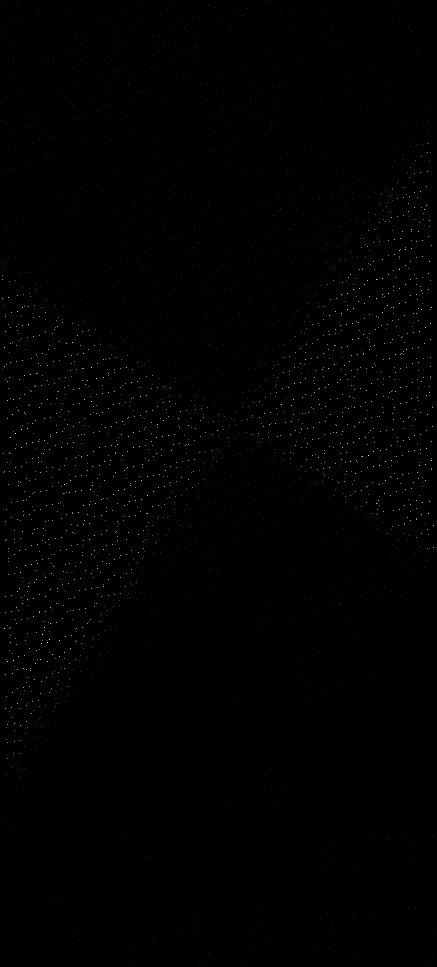
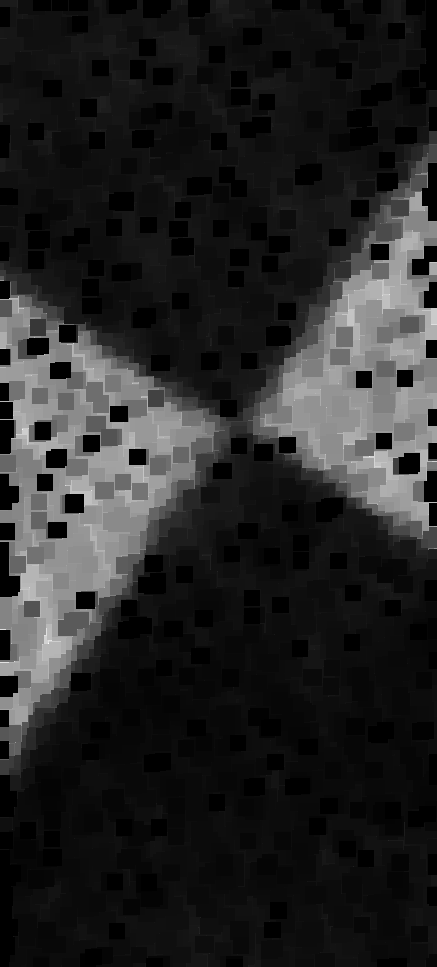
Auto crop and auto rotation is finished. GOOD JOB YOU HAVE DONE!!!

diff --git a/combination.py b/combination.py
@@ -131,8 +131,11 @@ def corner_detector(src_gray_, val):
 
 
 def pattern_corner_detector(src_gray_):
-    print(src_gray_.shape, '照片形状')
-    x_, y_ = int(src_gray_.shape[0] / 16), int(src_gray_.shape[1] / 16)
+    ret2, src_gray_ = cv2.threshold(src_gray_, 150, 255, cv2.THRESH_BINARY + cv2.THRESH_OTSU)
+    # print(src_gray_.shape, '照片形状')
+    x_, y_ = int(src_gray_.shape[0] / 8), int(src_gray_.shape[1] / 8)
+    x_ = min(x_, y_)
+    y_ = min(x_, y_)
     part_1 = np.zeros((x_, y_))
     part_2 = np.ones((x_, y_)) * 255
     template_up = np.hstack((part_1, part_2))
@@ -145,21 +148,36 @@ def pattern_corner_detector(src_gray_):
     cy = template_.shape[0]
 
     print(cx, cy, 'template shape')
+    min_val_initial = 10**10000
 
-    rotation_matrix_ = cv2.getRotationMatrix2D((int(cx/2), int(cy/2)), -35, 1)
-    rotated_ = cv2.warpAffine(template_, rotation_matrix_, (cx, cy))
-    ret_rotation, rotated_ = cv2.threshold(rotated_, 150, 255, cv2.THRESH_BINARY)
+    for ang_ in np.linspace(0, 180, 181, endpoint=True):
+        rotation_matrix_ = cv2.getRotationMatrix2D((int(cx / 2), int(cy / 2)), ang_, 1.7)
+        rotated_ = cv2.warpAffine(template_, rotation_matrix_, (cx, cy))
+        ret_rotation, rotated_ = cv2.threshold(rotated_, 150, 255, cv2.THRESH_BINARY)
 
-    result = cv2.matchTemplate(src_gray_, rotated_, cv2.TM_SQDIFF)
-    # cv2.normalize(result, result, 0, 1, cv2.NORM_MINMAX, -1)
-    min_val, max_val, min_loc, max_loc = cv2.minMaxLoc(result)
+        result = cv2.matchTemplate(src_gray_, rotated_, cv2.TM_SQDIFF)
+        min_val, max_val, min_loc, max_loc = cv2.minMaxLoc(result)
+
+        if min_val < min_val_initial:
+            min_val_initial = min_val
+            min_loc = min_loc
+            center_loc = np.array(list(min_loc)) + np.array([cx / 2, cy / 2])
+
+    # rotation_matrix_ = cv2.getRotationMatrix2D((int(cx/2), int(cy/2)), angle, 1.7)
+    # rotated_ = cv2.warpAffine(template_, rotation_matrix_, (cx, cy))
+    # ret_rotation, rotated_ = cv2.threshold(rotated_, 150, 255, cv2.THRESH_BINARY)
+    #
+    # result = cv2.matchTemplate(src_gray_, rotated_, cv2.TM_SQDIFF)
+    # # cv2.normalize(result, result, 0, 1, cv2.NORM_MINMAX, -1)
+    # min_val, max_val, min_loc, max_loc = cv2.minMaxLoc(result)
     # print(min_val, max_val, min_loc, max_loc)
     # print(np.array(list(min_loc)) + np.array([cx / 2, cy / 2]))
-    center_loc = np.array(list(min_loc)) + np.array([cx / 2, cy / 2])
+    # center_loc = np.array(list(min_loc)) + np.array([cx / 2, cy / 2])
+    # print(center_loc, "what happend")
     return center_loc
 
 
-file_name = 'B_ML'
+file_name = 'merged'
 
 cordi, color = data_preprocess(file_name + '.txt')
 
@@ -192,7 +210,6 @@ data_helper = np.array([[np.min(data_final[:, 1]), np.min(data_final[:, 2])]])
 print(data_helper, 'I am helping you')
 new_cor = np.round((cut_data_ - data_helper)/spacing_avg).astype(int)
 
-
 pixel_x, pixel_y = np.max(new_cor[:, 0]), np.max(new_cor[:, 1])
 print(pixel_x, pixel_y)
 print(len(new_cor), pixel_x*pixel_y)
@@ -204,27 +221,16 @@ for i in range(len(new_cor)):
     img_index_x, img_index_y = new_cor[i, 0], new_cor[i, 1]
     base_img[img_index_x, img_index_y] = color[i, 0]
 
-kernel_noise = np.ones((1, 1), dtype='uint8')
+kernel_noise = np.ones((16, 16), dtype='uint8')
 base_img = base_img.astype(np.uint8)
 base_img_de_noise = cv2.morphologyEx(base_img, cv2.MORPH_CLOSE, kernel_noise)
 # base_img_de_noise = cv2.morphologyEx(base_img_de_noise, cv2.MORPH_CLOSE, kernel_noise)
 
-cv2.imwrite(file_name + '.png', base_img)
+cv2.imwrite(file_name + '.png', base_img_de_noise)
 
 
 corner_detected = pattern_corner_detector(base_img_de_noise)
 print(corner_detected, '角点坐标')
-
-# plt.imshow(base_img, cmap='gray')
-# fig = plt.figure()
-# plt.imshow(base_img_de_noise, cmap='gray')
-# plt.show()
-
-# cv2.imshow('image', base_img_de_noise)
-# cv2.waitKey(0)
-# cv2.destroyAllWindows()
-
-# cv2.imwrite('B_MU_pic.png', base_img_de_noise)
 
 corner_pixel_cor = np.array([corner_detected[1], corner_detected[0]])
 back_cor = corner_pixel_cor*spacing_avg + data_helper

diff --git a/find the angle.py b/find the angle.py
@@ -2,9 +2,114 @@ import numpy as np
 import cv2
 from math import cos,sin,radians
 import matplotlib.pyplot as plt
+from sklearn.cluster import KMeans
+
 
 target = cv2.imread("B_MU_pic.png")
 target_gray = cv2.cvtColor(target, cv2.COLOR_BGR2GRAY)
+
+kernel_noise = np.ones((16, 16), dtype='uint8')
+base_img_de_noise = cv2.morphologyEx(target_gray, cv2.MORPH_CLOSE, kernel_noise)
+
 ret2, th2 = cv2.threshold(target_gray, 0, 255, cv2.THRESH_BINARY+cv2.THRESH_OTSU)
 
 print(th2.shape)
+
+th2_re = th2.reshape((-1, 1))
+x = np.arange(th2.shape[0])
+y = np.arange(th2.shape[1])
+X, Y = np.meshgrid(x, y)
+
+index_x = X.T.reshape((-1, 1))
+index_y = Y.T.reshape((-1, 1))
+
+new_index = np.hstack((index_x, index_y, th2_re))
+print(new_index)
+print(target.shape, "aaaaa")
+
+print(new_index[:, -1] == 0)
+
+updated = np.delete(new_index, new_index[:, -1] == 0, axis=0)
+print(updated)
+
+updated_2 = np.delete(updated, -1, axis=1)
+print(updated_2)
+# new_index = np.uint8(new_index)
+
+k_mean_sk = KMeans(n_clusters=2, random_state=0).fit(updated_2)
+print(k_mean_sk.cluster_centers_, "最后的希望")
+result = k_mean_sk.cluster_centers_
+result2 = np.abs(result[0] - result[1])
+thetattt = np.arctan(result2[0]/result2[1])*180/np.pi
+print(result2)
+print(thetattt)
+
+updated = np.delete(new_index, new_index[:, -1] == 255, axis=0)
+print(updated)
+
+updated_2 = np.delete(updated, -1, axis=1)
+print(updated_2)
+# new_index = np.uint8(new_index)
+
+k_mean_sk = KMeans(n_clusters=2, random_state=0).fit(updated_2)
+print(k_mean_sk.cluster_centers_, "最后的希望")
+result = k_mean_sk.cluster_centers_
+result2 = np.abs(result[0] - result[1])
+thetattt = np.arctan(result2[0]/result2[1])*180/np.pi
+print(result2)
+print(thetattt)
+
+
+# Z = target.reshape((-1, 3))
+# Z = np.float32(updated_2)
+# #
+# criteria = (cv2.TERM_CRITERIA_EPS + cv2.TERM_CRITERIA_MAX_ITER, 10, 1.0)
+# K = 2
+# ret, label, center = cv2.kmeans(Z, K, None, criteria, 20, cv2.KMEANS_RANDOM_CENTERS)
+# print(center)
+# #
+# center = np.uint8(center)
+# res = center[label.flatten()]
+# print(res)
+
+plt.imshow(th2, cmap='gray')
+plt.show()
+# res2 = res.reshape((th2.shape))
+
+# # 提取边缘
+# edges = cv2.Canny(th2, 200, 250, apertureSize=3)
+# plt.imshow(edges)
+# plt.show()
+# print(int(0.25*np.sqrt(edges.shape[0]**2 + edges.shape[1]**2)), '阈值')
+# # 提取直线
+# lines = cv2.HoughLines(edges, 1, 1*np.pi/180, 80)
+# print(lines)
+#
+# for line in lines:
+#     for rho, theta in line:
+#         print(rho, theta)
+#         a = np.cos(theta)
+#         b = np.sin(theta)
+#         print(theta/np.pi*180)
+#         x0 = a*rho
+#         y0 = b*rho
+#         x_check = x0 + np.tan(theta) + 10
+#         y_check = y0 + np.tan(theta) + 10
+#         print(th2[int(x_check), int(y_check)])
+#         x1 = int(x0 + 1000*(-b))
+#         y1 = int(y0 + 1000*(a))
+#         x2 = int(x0 - 1000*(-b))
+#         y2 = int(y0 - 1000*(a))
+#         #把直线显示在图片上
+#         cv2.line(th2,(x1,y1),(x2,y2),(0,0,255),2)
+#
+# # 显示原图和处理后的图像
+# cv2.imshow("org", target)
+# cv2.imshow("processed", th2)
+#
+# cv2.waitKey(0)
+#
+#
+#
+# # result
+# # kmean: k=3, cost=-668

diff --git a/cad_based matching.py b/cad_based matching.py
@@ -5,10 +5,13 @@ import matplotlib.pyplot as plt
 
 
 #读取目标图片
-target = cv2.imread("222.png")
+target = cv2.imread("zehao.png")
 target_gray = cv2.cvtColor(target, cv2.COLOR_BGR2GRAY)
+ret2, target_gray = cv2.threshold(target_gray, 200, 255, cv2.THRESH_BINARY+cv2.THRESH_OTSU)
 
-x_, y_ = int(target_gray.shape[0] / 16), int(target_gray.shape[1] / 16)
+x_, y_ = int(target_gray.shape[0] / 8), int(target_gray.shape[1] / 8)
+x_ = min(x_, y_)
+y_ = min(x_, y_)
 part_1 = np.zeros((x_, y_))
 part_2 = np.ones((x_, y_))*255
 template_up = np.hstack((part_1, part_2))
@@ -26,28 +29,48 @@ print(target_gray.shape, '导入后照片形状')
 cx = template_new.shape[1]
 cy = template_new.shape[0]
 
-M = cv2.getRotationMatrix2D((int(cx/2), int(cy/2)), -34, 1)
-rotated_30 = cv2.warpAffine(template_new, M, (cx, cy))
-ret, rotated_30 = cv2.threshold(rotated_30, 150, 255, cv2.THRESH_BINARY)
+min_val_initial = 10**10000
 
-result = cv2.matchTemplate(target_gray, rotated_30, cv2.TM_SQDIFF)
-print(cv2.minMaxLoc(result))
-cv2.normalize(result, result, 0, 1, cv2.NORM_MINMAX, -1)
-min_val, max_val, min_loc, max_loc = cv2.minMaxLoc(result)
-print(min_val, max_val, min_loc, max_loc)
-print(np.array(list(min_loc)) + np.array([cx/2, cy/2]))
+for ang_ in np.linspace(0, 180, 181, endpoint=True):
+    rotation_matrix_ = cv2.getRotationMatrix2D((int(cx / 2), int(cy / 2)), ang_, 2)
+    rotated_ = cv2.warpAffine(template_new, rotation_matrix_, (cx, cy))
+    ret_rotation, rotated_ = cv2.threshold(rotated_, 150, 255, cv2.THRESH_BINARY)
+
+    result = cv2.matchTemplate(target_gray, rotated_, cv2.TM_SQDIFF)
+    min_val, max_val, min_loc, max_loc = cv2.minMaxLoc(result)
+
+    if min_val < min_val_initial:
+        min_val_initial = min_val
+        left_corner = min_loc
+        rotated_draw = rotated_
+        center_loc = np.array(list(min_loc)) + np.array([cx / 2, cy / 2])
+        circle_center = (int(min_loc[0]+cx/2), int(min_loc[1]+cy/2))
+        up_corner = (min_loc[0] + cx, min_loc[1] + cy)
+
+# M = cv2.getRotationMatrix2D((int(cx/2), int(cy/2)), 145, 1.7)
+# rotated_30 = cv2.warpAffine(template_new, M, (cx, cy))
+# ret, rotated_30 = cv2.threshold(rotated_30, 150, 255, cv2.THRESH_BINARY)
+#
+# result = cv2.matchTemplate(target_gray, rotated_30, cv2.TM_SQDIFF)
+# print(cv2.minMaxLoc(result))
+# cv2.normalize(result, result, 0, 1, cv2.NORM_MINMAX, -1)
+# min_val, max_val, min_loc, max_loc = cv2.minMaxLoc(result)
+# print(min_val, max_val, min_loc, max_loc)
+# print(np.array(list(min_loc)) + np.array([cx/2, cy/2]))
 
 # fig = plt.figure()
 # plt.imshow(mask_, cmap='gray')
 fig2 = plt.figure()
 plt.axis('equal')
-plt.imshow(rotated_30, cmap='gray')
+plt.imshow(rotated_draw, cmap='gray')
 plt.show()
 
-strmin_val = str(min_val)
+strmin_val = str(min_val_initial)
 
-cv2.rectangle(target, min_loc, (min_loc[0]+cx, min_loc[1]+cy),(0,0,225),2)
-cv2.imshow("MatchResult----MatchingValue="+strmin_val,target)
+cv2.rectangle(target, left_corner, up_corner, (0, 0, 225), 2)
+cv2.circle(target, circle_center, 2, (0, 0, 225), 3)
+print(circle_center, "角点")
+cv2.imshow("MatchResult----MatchingValue="+strmin_val, target)
 cv2.waitKey()
 cv2.destroyAllWindows()
 

diff --git a/use_reshape.py b/use_reshape.py
@@ -1,0 +1,40 @@
+import numpy as np
+
+a = np.array([[1, 2, 3],
+              [4, 5, 6],
+              [7, 8, 9],
+              [-1, -2, -3],
+              [-4, -5, -6],
+              [-7, -8, -9]])
+
+print(a)
+b = a.reshape((-1, 1))
+print(b)
+
+x = np.arange(a.shape[0])
+y = np.arange(a.shape[1])
+X, Y = np.meshgrid(x, y)
+print(X)
+print(Y)
+
+index_x = X.T.reshape((-1, 1))
+index_y = Y.T.reshape((-1, 1))
+print(index_x)
+print(index_y)
+
+new = np.hstack((index_x, index_y, b))
+print(new)
+
+import matplotlib.pyplot as plt
+import cv2
+target = cv2.imread("B_ML.png")
+
+target_gray = cv2.cvtColor(target, cv2.COLOR_BGR2GRAY)
+
+kernel_noise = np.ones((16, 16), dtype='uint8')
+base_img_de_noise = cv2.morphologyEx(target_gray, cv2.MORPH_CLOSE, kernel_noise)
+base_img_de_noise = cv2.morphologyEx(base_img_de_noise, cv2.MORPH_CLOSE, kernel_noise)
+ret2, th2 = cv2.threshold(base_img_de_noise, 0, 255, cv2.THRESH_BINARY+cv2.THRESH_OTSU)
+
+plt.imshow(th2, cmap='gray')
+plt.show()
